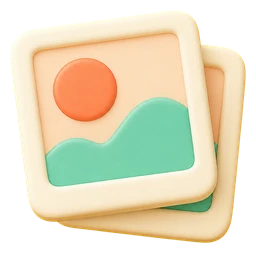
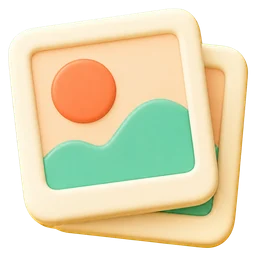
fix(home): move visual shadows into scene styling

diff --git a/AGENTS.md b/AGENTS.md
@@ -80,6 +80,10 @@ For interactive inspection, wait briefly for the scene to render, then inspect t
 - Before importing the asset into Godot, inspect the actual alpha channel and
   edge pixels. A preview or filename is not evidence that the image has real
   transparency.
+- Generated UI foreground assets must not contain baked cast, contact, ambient,
+  or drop shadows. When the interface needs depth, implement the shadow in
+  Godot with scene styles, shaders, or dedicated runtime nodes so it remains
+  adjustable and does not create an inner border when the asset is resized.
 - Keep the generated source outside the runtime asset path. Only the processed,
   alpha-verified, trimmed, and compressed result belongs under `assets/`.
 

diff --git a/assets/ui/home/SOURCES.md b/assets/ui/home/SOURCES.md
@@ -9,3 +9,7 @@
 
 The runtime files were background-removed, alpha-trimmed, resized, and encoded
 as transparent WebP assets with the repository image tools.
+
+All foreground assets are generated without cast, contact, ambient, or drop
+shadows. Visual shadows are owned by Godot scene styles so their color, offset,
+softness, and Reduced Motion behavior remain adjustable at runtime.
